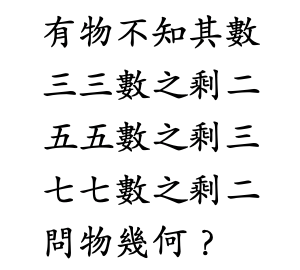
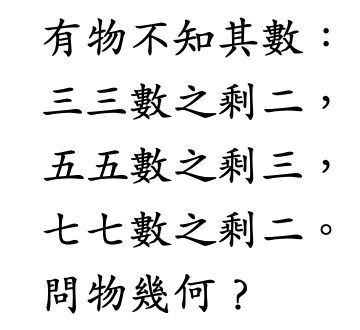
Add alt/title for lagrange

diff --git a/index.html b/index.html
@@ -1,7 +1,7 @@
 <!DOCTYPE html PUBLIC "-//W3C//DTD XHTML 1.0 Strict//EN" "http://www.w3.org/TR/xhtml1/DTD/xhtml1-strict.dtd">
 <html xmlns="http://www.w3.org/1999/xhtml">
 <head>
-  <meta http-equiv="Content-Type" content="text/html; charset=iso-8859-1" />
+  <meta http-equiv="Content-Type" content="text/html; charset=UTF-8" />
   <title>Sze, Tsz-Wo (Nicholas)</title>
   <link rel="ICON" href="./icons/sze32.png" />
   <link rel="SHORTCUT ICON" href="./icons/sze32.png" />
@@ -195,10 +195,24 @@ or, equivalently, <tt>3F</tt> in hexadecimal.
 
   <li><a href="pdf/lagrange.pdf">Lagrange Interpolation & The Chinese Remainder Theorem</a>
     <a href="pdf/71_6.png">
-      <img src="pdf/71_6.png" alt="A Puzzle" width="15%" style="vertical-align:middle" />
+      <img src="pdf/71_6.png" width="15%" style="vertical-align:middle" 
+       alt="37#21 = 928,
+77#44 = 3993,
+123#17 = 14840,
+71#6 = ?" />
     </a>
     <a href="pdf/sunzi.png">
-      <img src="pdf/sunzi.png" alt="Sunzi Suanjing" width="15%" style="vertical-align:middle" />
+      <img src="pdf/sunzi.png" width="15%" style="vertical-align:middle"
+       alt="有物不知其數：
+三三數之剩二，
+五五數之剩三，
+七七數之剩二。
+問物幾何？"
+       title= "There is an unknown number of items.
+When grouping 3 as a group, 2 remain.
+When grouping 5 as a group, 3 remain.
+When grouping 7 as a group, 2 remain.
+How many items are there?" />
     </a>
   </li>
 </ul>
